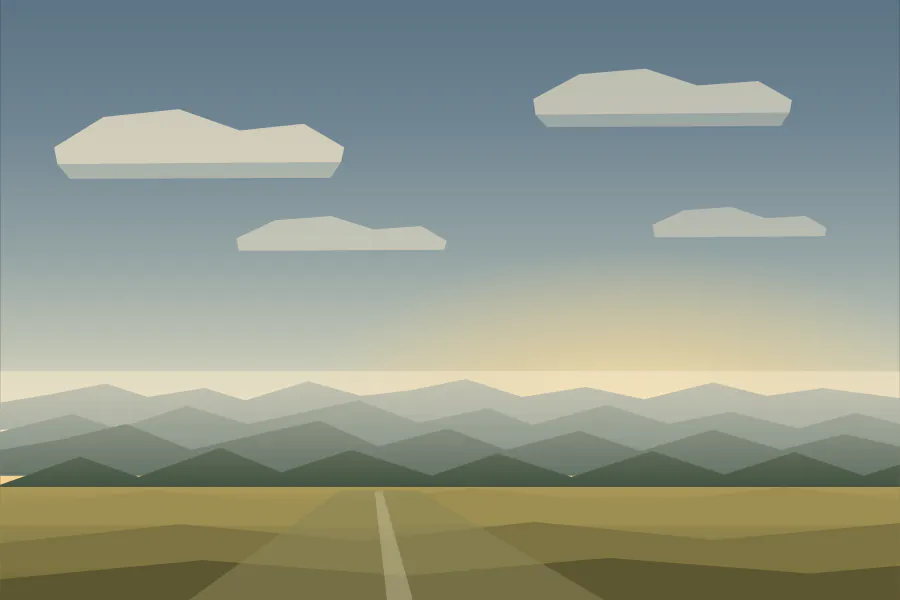
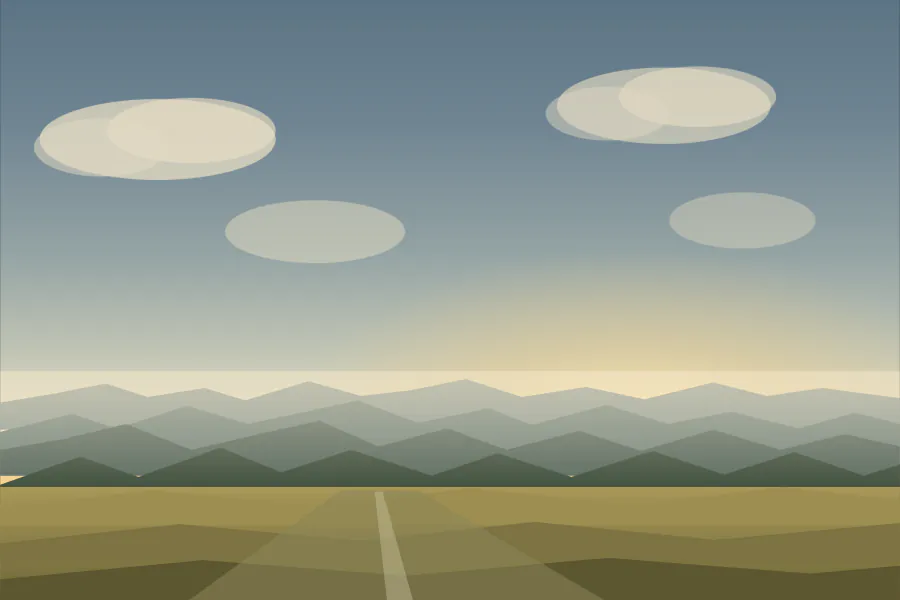
Menu backdrop: soft drifting cumulus on a live canvas instead of polygon slabs; boot cover regenerated
Jobs 340+341 (Cursor, composer-2.5-fast), committed by the integrator. Captures prove the canvas mounts; light-theme clouds are still blobby.

Claude-Session: https://claude.ai/code/session_018KCkRzYfMqYdSQRMSRKAPi

diff --git a/web/wwwroot/render/shell/ready_menu_backdrop.js b/web/wwwroot/render/shell/ready_menu_backdrop.js
@@ -32,48 +32,39 @@ const SKY = Object.freeze({
   }),
 });
 
-/** @type {ReadonlyArray<{ depth: number, x: number, y: number, puffs: ReadonlyArray<readonly [number, number, number, number, number]> }>} */
+const DRIFT_PX_PER_S = 4.5;
+const VIEW_W = 1600;
+const VIEW_H = 1067;
+
+/** Puffs in viewBox space: cx, cy, rx, ry, alpha — matched to menu-hangar.svg cumulus. */
+/** @type {ReadonlyArray<{ depth: number, puffs: ReadonlyArray<readonly [number, number, number, number, number]> }>} */
 const CLOUDS = Object.freeze([
   {
     depth: 0.22,
-    x: 0.22,
-    y: 0.21,
     puffs: Object.freeze([
-      [0, 0, 0.19, 0.11, 0.78],
-      [0.07, -0.04, 0.14, 0.09, 0.72],
-      [-0.08, 0.02, 0.12, 0.08, 0.65],
-      [0.12, 0.03, 0.11, 0.07, 0.58],
-      [-0.04, 0.06, 0.15, 0.07, 0.52],
+      [280 / VIEW_W, 248 / VIEW_H, 210 / VIEW_W, 72 / VIEW_H, 0.72],
+      [340 / VIEW_W, 232 / VIEW_H, 150 / VIEW_W, 58 / VIEW_H, 0.65],
+      [180 / VIEW_W, 262 / VIEW_H, 120 / VIEW_W, 52 / VIEW_H, 0.55],
     ]),
   },
   {
     depth: 0.28,
-    x: 0.78,
-    y: 0.16,
     puffs: Object.freeze([
-      [0, 0, 0.17, 0.10, 0.74],
-      [-0.06, -0.03, 0.13, 0.08, 0.68],
-      [0.09, 0.02, 0.12, 0.07, 0.6],
-      [0.04, 0.05, 0.14, 0.08, 0.5],
+      [1180 / VIEW_W, 188 / VIEW_H, 190 / VIEW_W, 68 / VIEW_H, 0.62],
+      [1240 / VIEW_W, 172 / VIEW_H, 140 / VIEW_W, 54 / VIEW_H, 0.58],
+      [1080 / VIEW_W, 202 / VIEW_H, 110 / VIEW_W, 48 / VIEW_H, 0.48],
     ]),
   },
   {
     depth: 0.35,
-    x: 0.48,
-    y: 0.38,
     puffs: Object.freeze([
-      [0, 0, 0.14, 0.08, 0.55],
-      [0.06, -0.02, 0.10, 0.06, 0.48],
-      [-0.07, 0.03, 0.11, 0.07, 0.42],
+      [560 / VIEW_W, 412 / VIEW_H, 160 / VIEW_W, 56 / VIEW_H, 0.46],
     ]),
   },
   {
     depth: 0.18,
-    x: 0.62,
-    y: 0.34,
     puffs: Object.freeze([
-      [0, 0, 0.11, 0.07, 0.45],
-      [0.05, 0.02, 0.09, 0.05, 0.38],
+      [1320 / VIEW_W, 392 / VIEW_H, 130 / VIEW_W, 50 / VIEW_H, 0.38],
     ]),
   },
 ]);
@@ -96,10 +87,6 @@ const HILL_BANDS = Object.freeze([
     d: "M0 862 L142 812 L246 848 L392 796 L500 840 L624 800 L768 846 L884 806 L1016 848 L1160 802 L1288 844 L1412 804 L1536 846 L1600 826 V896 H0 Z",
   },
 ]);
-
-const DRIFT_PX_PER_S = 4.5;
-const VIEW_W = 1600;
-const VIEW_H = 1067;
 
 function themePalette(root) {
   return root?.getAttribute("data-theme") === "light" ? SKY.light : SKY.dark;
@@ -134,9 +121,10 @@ function paintSky(ctx, w, h, palette) {
 
 function paintPuff(ctx, cx, cy, rx, ry, coreHex, rimHex, alpha) {
   const scale = Math.max(rx, ry);
-  const g = ctx.createRadialGradient(cx, cy, scale * 0.08, cx, cy, scale);
+  const g = ctx.createRadialGradient(cx, cy, scale * 0.04, cx, cy, scale * 1.08);
   g.addColorStop(0, rgbaFromHex(coreHex, alpha));
-  g.addColorStop(0.55, rgbaFromHex(rimHex, alpha * 0.85));
+  g.addColorStop(0.42, rgbaFromHex(rimHex, alpha * 0.88));
+  g.addColorStop(0.78, rgbaFromHex(rimHex, alpha * 0.28));
   g.addColorStop(1, "rgba(255, 255, 255, 0)");
   ctx.fillStyle = g;
   ctx.beginPath();
@@ -154,31 +142,24 @@ function rgbaFromHex(hex, alpha) {
 
 function paintClouds(ctx, w, h, palette, driftPx) {
   ctx.save();
+  ctx.filter = `blur(${Math.max(5, Math.min(w, h) * 0.009)}px)`;
   ctx.globalCompositeOperation = "source-over";
   for (const cloud of CLOUDS) {
     const layerDrift = driftPx * cloud.depth;
-    const anchorX = cloud.x * w + layerDrift;
-    const anchorY = cloud.y * h;
-    for (const [dx, dy, rxN, ryN, alpha] of cloud.puffs) {
-      const rx = rxN * w;
-      const ry = ryN * h;
+    for (const [cxN, cyN, rxN, ryN, alpha] of cloud.puffs) {
       paintPuff(
         ctx,
-        anchorX + dx * w,
-        anchorY + dy * h,
-        rx,
-        ry,
+        cxN * w + layerDrift,
+        cyN * h,
+        rxN * w,
+        ryN * h,
         palette.cloudLight,
         palette.cloudMid,
         alpha,
       );
     }
-    const shadeY = anchorY + h * 0.045;
-    ctx.fillStyle = palette.cloudShade;
-    ctx.beginPath();
-    ctx.ellipse(anchorX, shadeY, w * 0.11 * cloud.depth + w * 0.08, h * 0.018, 0, 0, Math.PI * 2);
-    ctx.fill();
   }
+  ctx.filter = "none";
   ctx.restore();
 }
 
